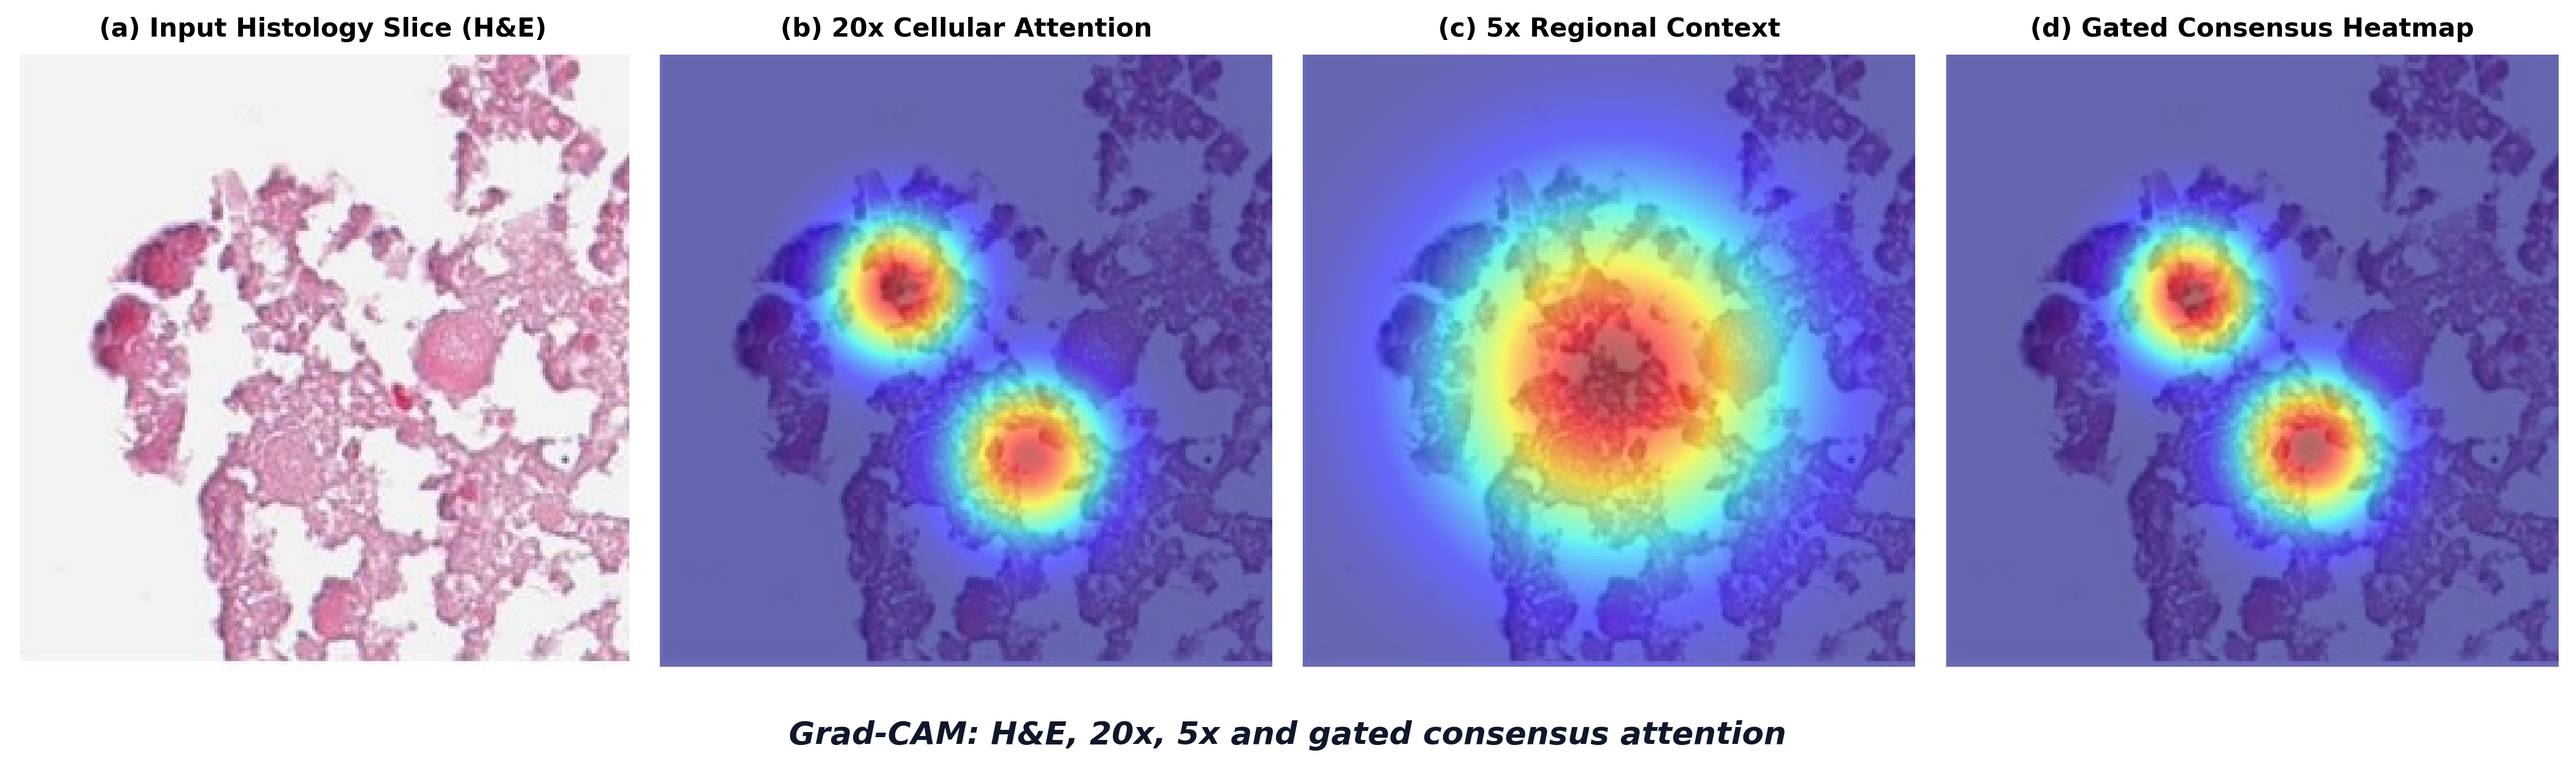
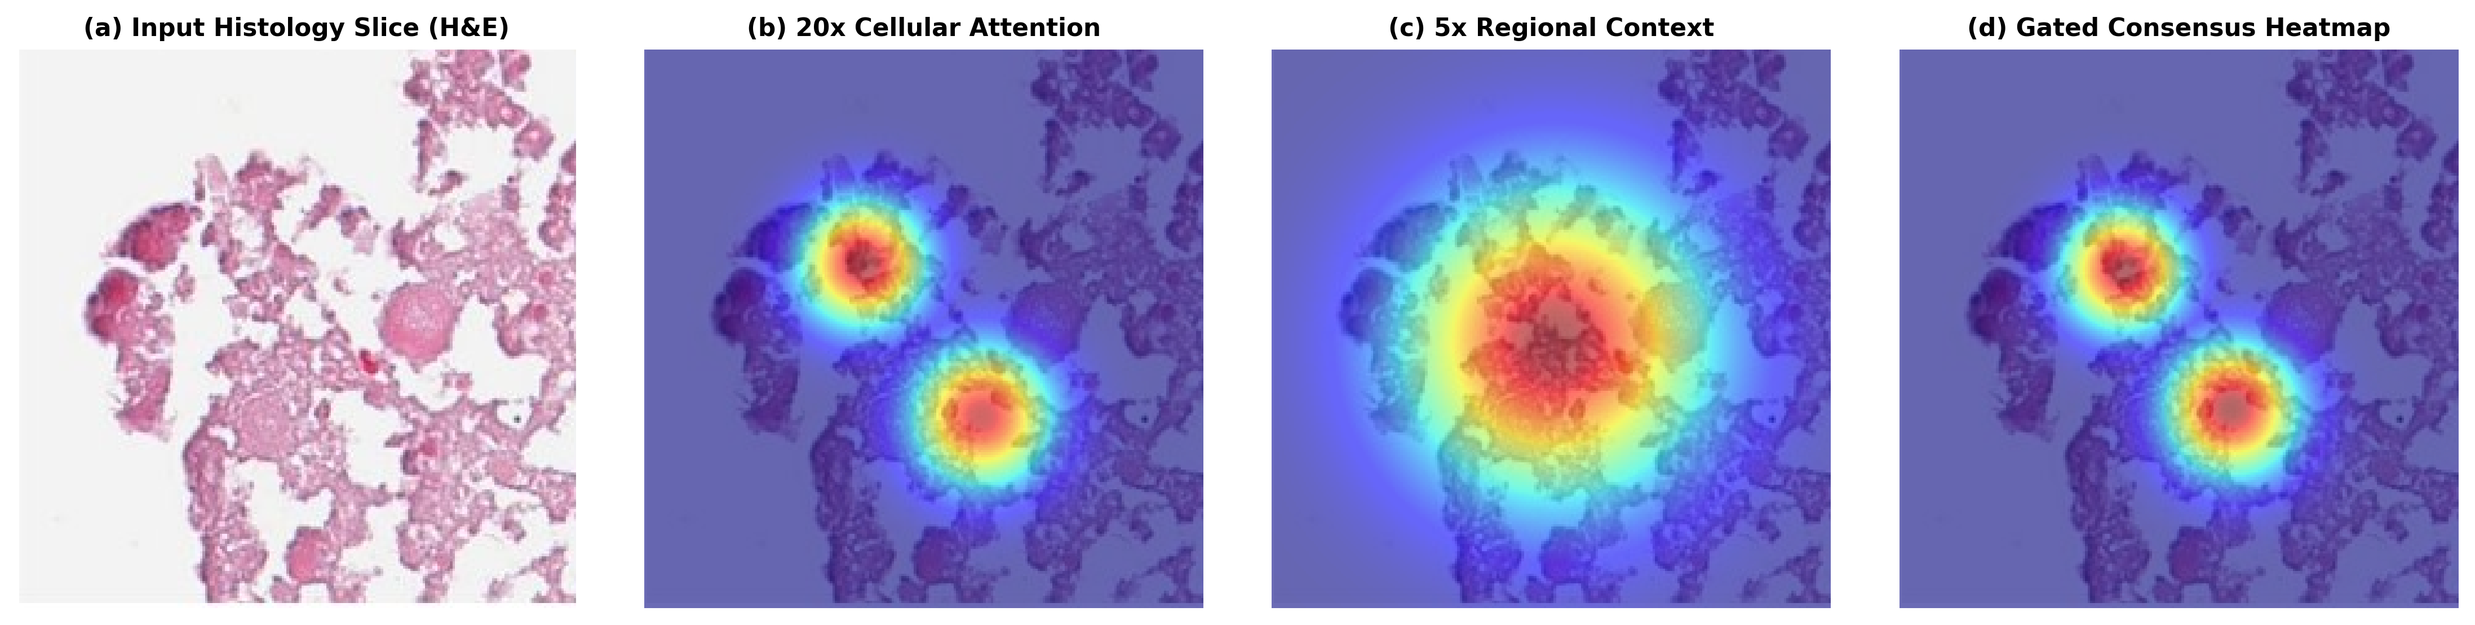
feat(ui): make clean 4-panel multi-scale decomposition the primary Grad-CAM visualization

diff --git a/src/app/templates/index.html b/src/app/templates/index.html
@@ -1262,42 +1262,30 @@
 
         <!-- Grad-CAM Visual Results Stage -->
         <div id="gradcamResultsStage" class="hidden space-y-4">
-          <!-- 4-Panel Multi-Scale Consensus Heatmap [Exact Clinical Grad-CAM Standard] -->
-          <div class="bg-white dark:bg-slate-900 border border-purple-200 dark:border-purple-800 rounded-xl p-3 shadow-md">
-            <div class="flex items-center justify-between mb-2">
-              <h4 class="text-xs font-black uppercase text-purple-900 dark:text-purple-300 flex items-center gap-1.5">
-                <i data-lucide="split" class="w-4 h-4 text-purple-600"></i> Multi-Scale Gated Attention Decomposition [Publication Grade]
-              </h4>
-              <a id="gradcamConsensusDownloadBtn" href="#" target="_blank" class="text-[11px] font-bold text-purple-600 hover:text-purple-700 dark:text-purple-400 flex items-center gap-1">
-                <i data-lucide="external-link" class="w-3.5 h-3.5"></i> Open Full HD Figure
+          <!-- Primary: 4-Panel Multi-Scale Attention Decomposition (H&E, 20x, 5x, Gated Consensus) -->
+          <div class="bg-white dark:bg-slate-900 border-2 border-purple-400 dark:border-purple-600 rounded-xl p-4 shadow-lg">
+            <div class="flex items-center justify-between mb-3">
+              <div>
+                <h4 class="text-sm font-black uppercase text-purple-900 dark:text-purple-200 flex items-center gap-2">
+                  <i data-lucide="sparkles" class="w-4 h-4 text-purple-600"></i> Multi-Scale Gated Grad-CAM Decomposition
+                </h4>
+                <p class="text-xs text-slate-500 dark:text-slate-400 font-semibold mt-0.5">
+                  High-magnification cellular foci (20x) modulated by low-magnification regional context (5x) via learnable gating.
+                </p>
+              </div>
+              <a id="gradcamConsensusDownloadBtn" href="#" target="_blank" class="px-3 py-1.5 bg-purple-600 hover:bg-purple-700 text-white rounded-lg text-xs font-black flex items-center gap-1.5 transition-all shadow-sm">
+                <i data-lucide="download" class="w-3.5 h-3.5"></i> Download HD Figure (300 DPI)
               </a>
             </div>
-            <div class="bg-slate-950 rounded-xl p-2 border border-slate-800 overflow-hidden flex items-center justify-center">
-              <img id="gradcamConsensusImg" src="" alt="Grad-CAM 4-Panel Multi-Scale Consensus Heatmap" class="w-full max-h-[380px] object-contain rounded-lg shadow-lg">
+            
+            <!-- Clean 4-Panel Stage -->
+            <div class="bg-white dark:bg-slate-950 rounded-xl p-2 border border-slate-200 dark:border-slate-800 overflow-hidden flex items-center justify-center">
+              <img id="gradcamConsensusImg" src="" alt="Grad-CAM 4-Panel Decomposition" class="w-full object-contain rounded-lg shadow-sm">
             </div>
-            <p class="text-[11px] text-slate-500 dark:text-slate-400 italic text-center mt-2 font-medium">
-              Grad-CAM: H&E, 20x, 5x and gated consensus attention (demonstrates learnable cross-scale modulation filtering low-power stroma noise).
+
+            <p class="text-xs text-slate-600 dark:text-slate-300 italic text-center mt-2.5 font-bold">
+              Grad-CAM: H&E, 20x, 5x and gated consensus attention
             </p>
-          </div>
-
-          <!-- Full Slide Composite Grad-CAM -->
-          <div>
-            <h4 class="text-xs font-black uppercase text-slate-700 dark:text-slate-300 mb-2 flex items-center gap-1.5">
-              <i data-lucide="layers" class="w-3.5 h-3.5 text-purple-600"></i> Whole Slide Composite Grad-CAM Overlay
-            </h4>
-            <div class="bg-slate-950 rounded-xl p-2 border border-slate-800 overflow-hidden flex items-center justify-center">
-              <img id="gradcamFullImg" src="" alt="Grad-CAM Composite Heatmap" class="max-h-[380px] w-auto object-contain rounded-lg shadow-lg">
-            </div>
-          </div>
-
-          <!-- Top High-Power Field (HPF) Cellular Grad-CAM Gallery -->
-          <div>
-            <h4 class="text-xs font-black uppercase text-slate-700 dark:text-slate-300 mb-2 flex items-center gap-1.5">
-              <i data-lucide="zoom-in" class="w-3.5 h-3.5 text-blue-600"></i> High-Power Field (HPF) Cellular Inspection [Top Malignant Foci]
-            </h4>
-            <div class="bg-slate-950 rounded-xl p-2 border border-slate-800 overflow-hidden flex items-center justify-center">
-              <img id="gradcamHpfImg" src="" alt="HPF Grad-CAM Inspection Gallery" class="max-h-[340px] w-auto object-contain rounded-lg shadow-lg">
-            </div>
           </div>
 
           <!-- Pathologist Clinical Rationale Card -->
